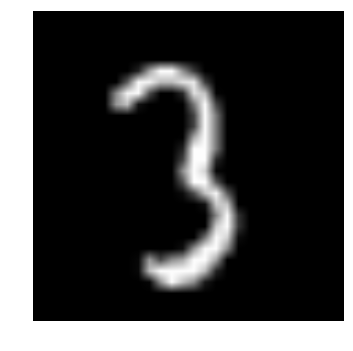
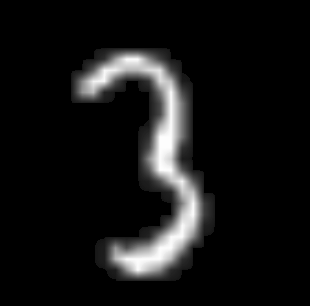
predict file completed

diff --git a/mnist_cnn/predict.py b/mnist_cnn/predict.py
@@ -9,23 +9,14 @@ model.load_weights('mnist_97_weights.h5')
 
 
 def load_image(img_path, show=True):
-
+    img = image.load_img(img_path, target_size=(28, 28))
+    plt.imshow(img)                           
     img = image.load_img(img_path, target_size=(28, 28), grayscale=True)
-    img_tensor = image.img_to_array(img)                    # (height, width, channels)
-    img_tensor = np.expand_dims(img_tensor, axis=0)         # (1, height, width, channels), add a dimension because the model expects this shape: (batch_size, height, width, channels)
-    img_tensor /= 255.                                      # imshow expects values in the range [0, 1]
-    
-    if show:
-        plt.imshow(img_tensor[0])                           
-        plt.axis('off')
-        plt.show()
-
-    return img_tensor
+    img = np.reshape(img,[1,28,28,1])
+    return img
 
 
 img_path = '3.png'
-
-
 img = load_image(img_path)
 
 pred = model.predict(img)
